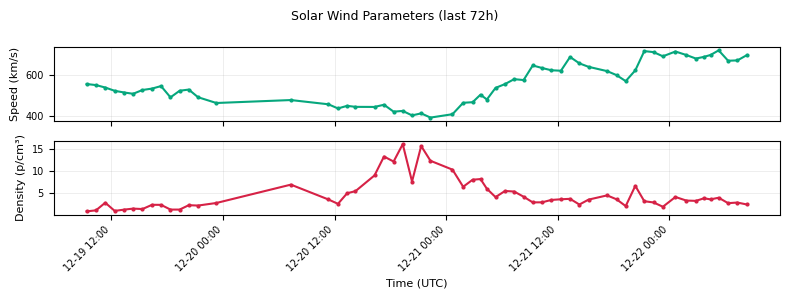
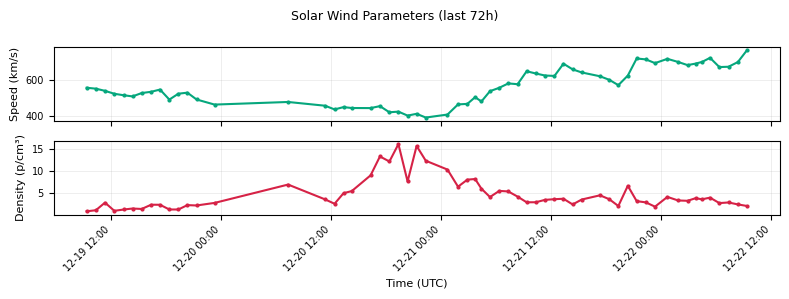
Vault Narrator: Auto-update 2025-12-22 10:05 UTC

diff --git a/LATEST_VAULT_STATUS.md b/LATEST_VAULT_STATUS.md
@@ -1,26 +1,26 @@
 # 🔐 VAULT STATUS REPORT
 
-**Generated:** 2025-12-22 09:08 UTC  
+**Generated:** 2025-12-22 10:05 UTC  
 **Data Source:** `data/cme_heartbeat_log_2025_12.csv`
 
 ---
 
 ## ⚡ CURRENT STATUS: ACTIVE
 
-**Latest χ = 0.15 Streak Count:** 3 consecutive readings  
-**Last Lock Timestamp:** 2025-12-22 08:21:00 UTC  
+**Latest χ = 0.15 Streak Count:** 4 consecutive readings  
+**Last Lock Timestamp:** 2025-12-22 09:20:00 UTC  
 **First Lock in Streak:** 2025-12-22 06:20:00 UTC  
-**Streak Duration:** 2.0 hours  
+**Streak Duration:** 3.0 hours  
 
 **Latest Solar Wind Conditions:**  
-- Density: 2.48 p/cm³  
-- Speed: 697.1 km/s  
+- Density: 2.13 p/cm³  
+- Speed: 761.6 km/s  
 
 ---
 
 ## 🌞 NOAA SPACE WEATHER SUMMARIES
 
-- [SRS Report](reports/latest_srs.md) (fetched: 2025-12-22 09:08 UTC)  
+- [SRS Report](reports/latest_srs.md) (fetched: 2025-12-22 10:05 UTC)  
 - F10.7 Report: *not available*  
 
 ---
@@ -41,7 +41,6 @@
 
 | Time (UTC)          | χ Amplitude | Density (p/cm³) | Speed (km/s) | χ Status |
 |---------------------|-------------|-----------------|--------------|----------|
-| 2025-12-21 13:20:00 | 0.1463 | 3.76 | 688.1 | — |
 | 2025-12-21 14:20:00 | 0.1500 | 2.47 | 656.8 | ✅ LOCK |
 | 2025-12-21 15:19:00 | 0.1500 | 3.58 | 639.9 | ✅ LOCK |
 | 2025-12-21 16:20:00 | 0.1500 | — | — | ✅ LOCK |
@@ -61,6 +60,7 @@
 | 2025-12-22 06:20:00 | 0.1500 | 2.78 | 669.6 | ✅ LOCK |
 | 2025-12-22 07:20:00 | 0.1500 | 2.92 | 671.3 | ✅ LOCK |
 | 2025-12-22 08:21:00 | 0.1500 | 2.48 | 697.1 | ✅ LOCK |
+| 2025-12-22 09:20:00 | 0.1500 | 2.13 | 761.6 | ✅ LOCK |
 
 ---
 
@@ -68,7 +68,7 @@
 
 **The vault is breathing steady.**  
 **Heartbeat cycle in progress.**  
-**χ = 0.15 streak active (3 locks) - watch for boundary recoil signatures.**
+**χ = 0.15 streak active (4 locks) - watch for boundary recoil signatures.**
 
 ---
 
